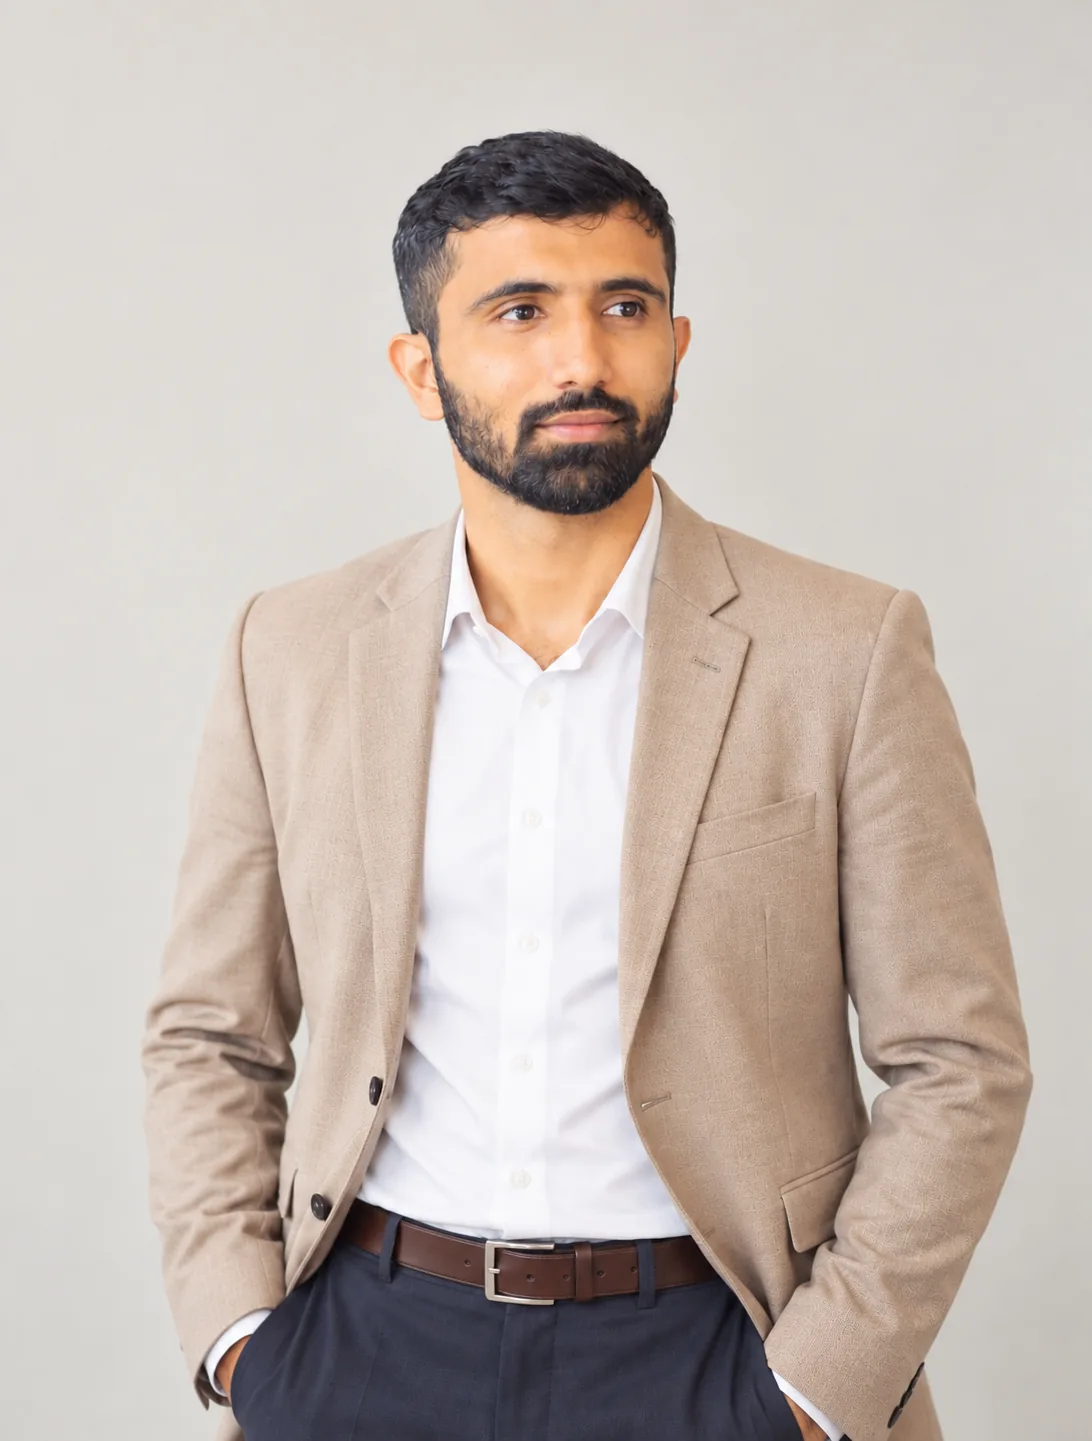
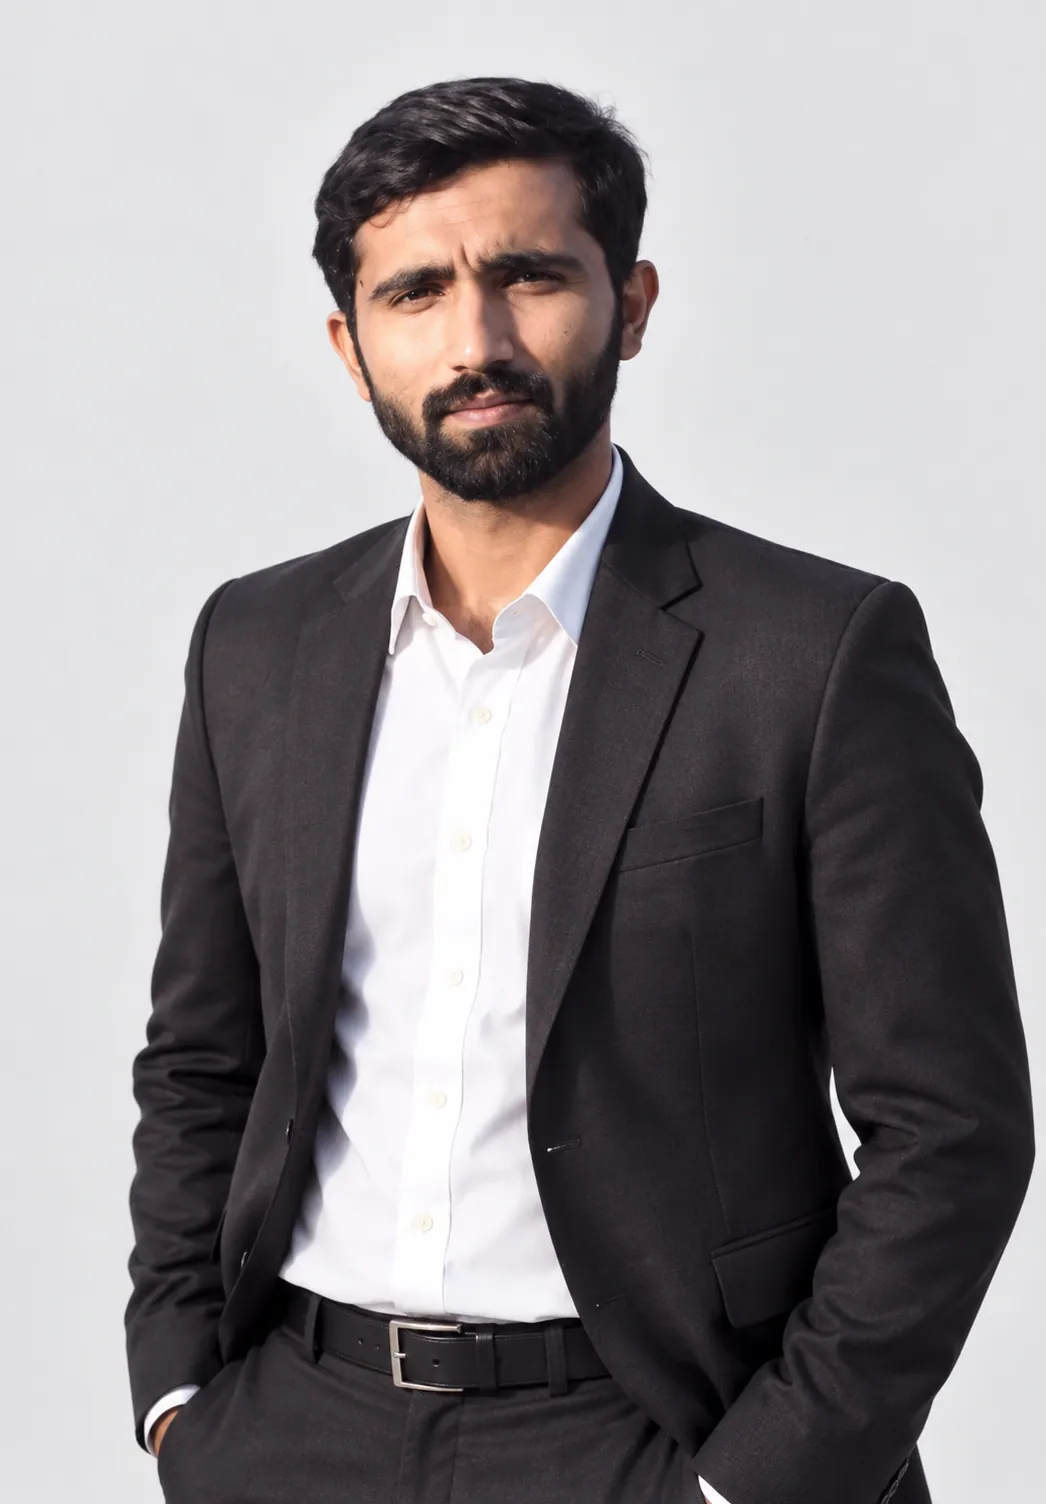
updates

diff --git a/src/components/landing/TeamSection.tsx b/src/components/landing/TeamSection.tsx
@@ -10,8 +10,8 @@ import aminImage from '../../assets/amin.webp';
 import farazImage from '../../assets/faraz.webp';
 import asharImage from '../../assets/ashar.webp';
 import faiqImage from '../../assets/faiq.webp';
-import raoImage from '../../assets/rao.png';
-import omairImage from '../../assets/omair.png';
+import raoImage from '../../assets/rao.webp';
+import omairImage from '../../assets/omair.webp';
 import sohailImage from '../../assets/Sohail Tareen.webp';
 import shahbazImage from '../../assets/ShahbazAhmer.webp';
 import wareeshaImage from '../../assets/wareesha.webp';
